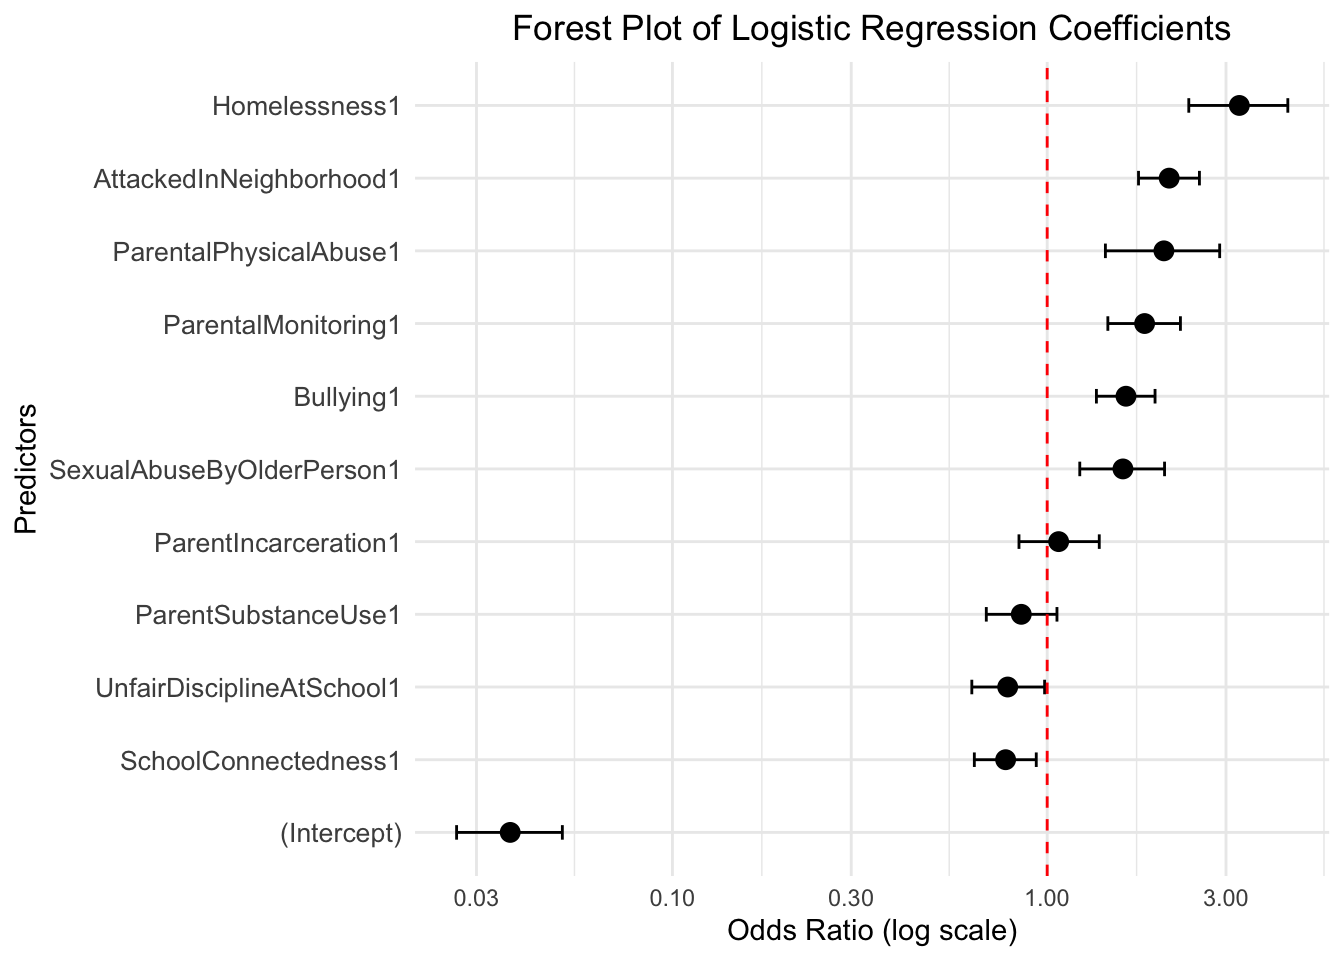
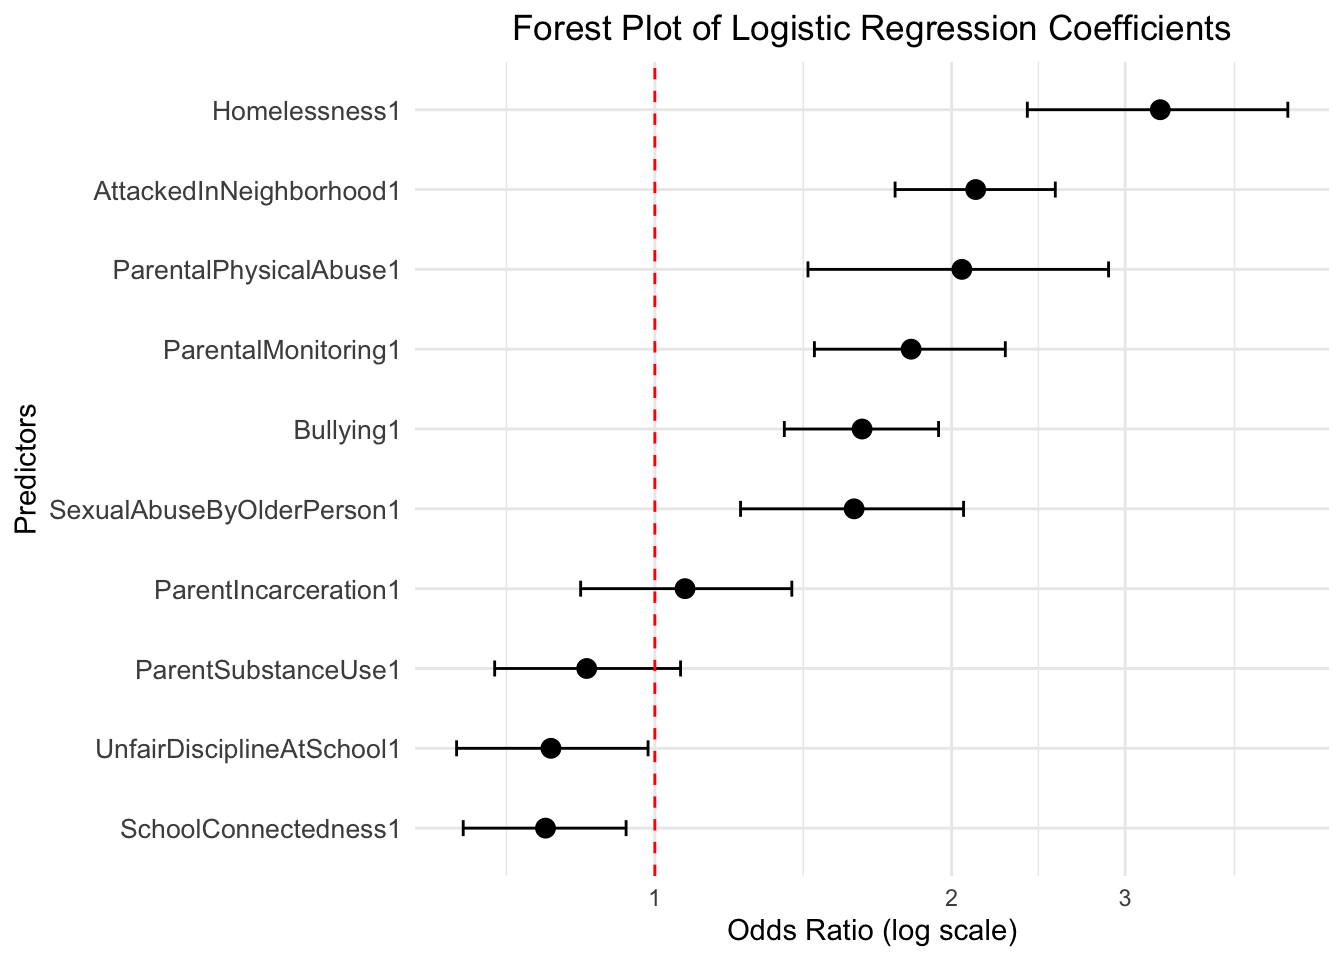
fixed details in website

diff --git a/docs/models/datasets.html b/docs/models/datasets.html
@@ -7,7 +7,7 @@
 <meta name="viewport" content="width=device-width, initial-scale=1.0, user-scalable=yes">
 
 
-<title>Data and Research Question – Machine Learning Course Portfolio</title>
+<title>Data and Research Question – Machine Learning Notes</title>
 <style>
 code{white-space: pre-wrap;}
 span.smallcaps{font-variant: small-caps;}
@@ -113,7 +113,7 @@ pre > code.sourceCode > span > a:first-child::before { text-decoration: underlin
       <div class="navbar-container container-fluid">
       <div class="navbar-brand-container mx-auto">
     <a class="navbar-brand" href="../index.html">
-    <span class="navbar-title">Machine Learning Course Portfolio</span>
+    <span class="navbar-title">Machine Learning Notes</span>
     </a>
   </div>
             <div id="quarto-search" class="" title="Search"></div>
@@ -251,71 +251,47 @@ pre > code.sourceCode > span > a:first-child::before { text-decoration: underlin
 <section id="data-preprocessing" class="level3">
 <h3 class="anchored" data-anchor-id="data-preprocessing">Data Preprocessing</h3>
 <div class="cell">
-<div class="sourceCode cell-code" id="cb1"><pre class="sourceCode r code-with-copy"><code class="sourceCode r"><span id="cb1-1"><a href="#cb1-1" aria-hidden="true" tabindex="-1"></a><span class="fu">library</span>(tidyverse)</span></code><button title="Copy to Clipboard" class="code-copy-button"><i class="bi"></i></button></pre></div>
-<div class="cell-output cell-output-stderr">
-<pre><code>── Attaching core tidyverse packages ──────────────────────── tidyverse 2.0.0 ──
-✔ dplyr     1.1.4     ✔ readr     2.1.5
-✔ forcats   1.0.0     ✔ stringr   1.5.1
-✔ ggplot2   3.5.2     ✔ tibble    3.2.1
-✔ lubridate 1.9.4     ✔ tidyr     1.3.1
-✔ purrr     1.0.4     
-── Conflicts ────────────────────────────────────────── tidyverse_conflicts() ──
-✖ dplyr::filter() masks stats::filter()
-✖ dplyr::lag()    masks stats::lag()
-ℹ Use the conflicted package (&lt;http://conflicted.r-lib.org/&gt;) to force all conflicts to become errors</code></pre>
-</div>
-<div class="sourceCode cell-code" id="cb3"><pre class="sourceCode r code-with-copy"><code class="sourceCode r"><span id="cb3-1"><a href="#cb3-1" aria-hidden="true" tabindex="-1"></a><span class="fu">library</span>(tidymodels)</span></code><button title="Copy to Clipboard" class="code-copy-button"><i class="bi"></i></button></pre></div>
-<div class="cell-output cell-output-stderr">
-<pre><code>── Attaching packages ────────────────────────────────────── tidymodels 1.3.0 ──
-✔ broom        1.0.8     ✔ rsample      1.3.0
-✔ dials        1.4.0     ✔ tune         1.3.0
-✔ infer        1.0.8     ✔ workflows    1.2.0
-✔ modeldata    1.4.0     ✔ workflowsets 1.1.0
-✔ parsnip      1.3.1     ✔ yardstick    1.3.2
-✔ recipes      1.3.0     
-── Conflicts ───────────────────────────────────────── tidymodels_conflicts() ──
-✖ scales::discard() masks purrr::discard()
-✖ dplyr::filter()   masks stats::filter()
-✖ recipes::fixed()  masks stringr::fixed()
-✖ dplyr::lag()      masks stats::lag()
-✖ yardstick::spec() masks readr::spec()
-✖ recipes::step()   masks stats::step()</code></pre>
-</div>
-<div class="sourceCode cell-code" id="cb5"><pre class="sourceCode r code-with-copy"><code class="sourceCode r"><span id="cb5-1"><a href="#cb5-1" aria-hidden="true" tabindex="-1"></a><span class="fu">library</span>(dissertationData)</span>
-<span id="cb5-2"><a href="#cb5-2" aria-hidden="true" tabindex="-1"></a><span class="fu">library</span>(here)</span></code><button title="Copy to Clipboard" class="code-copy-button"><i class="bi"></i></button></pre></div>
-<div class="cell-output cell-output-stderr">
-<pre><code>here() starts at /Users/cata/Desktop/FAU</code></pre>
-</div>
-<div class="sourceCode cell-code" id="cb7"><pre class="sourceCode r code-with-copy"><code class="sourceCode r"><span id="cb7-1"><a href="#cb7-1" aria-hidden="true" tabindex="-1"></a><span class="fu">data</span>(clean_yrbs_2023)</span>
-<span id="cb7-2"><a href="#cb7-2" aria-hidden="true" tabindex="-1"></a><span class="co"># Add your data preprocessing code here</span></span></code><button title="Copy to Clipboard" class="code-copy-button"><i class="bi"></i></button></pre></div>
+<div class="sourceCode cell-code" id="cb1"><pre class="sourceCode r code-with-copy"><code class="sourceCode r"><span id="cb1-1"><a href="#cb1-1" aria-hidden="true" tabindex="-1"></a><span class="fu">library</span>(tidyverse)</span>
+<span id="cb1-2"><a href="#cb1-2" aria-hidden="true" tabindex="-1"></a><span class="fu">library</span>(tidymodels)</span>
+<span id="cb1-3"><a href="#cb1-3" aria-hidden="true" tabindex="-1"></a><span class="fu">library</span>(dissertationData)</span>
+<span id="cb1-4"><a href="#cb1-4" aria-hidden="true" tabindex="-1"></a><span class="fu">library</span>(here)</span>
+<span id="cb1-5"><a href="#cb1-5" aria-hidden="true" tabindex="-1"></a><span class="fu">data</span>(clean_yrbs_2023)</span>
+<span id="cb1-6"><a href="#cb1-6" aria-hidden="true" tabindex="-1"></a><span class="co"># Add your data preprocessing code here</span></span></code><button title="Copy to Clipboard" class="code-copy-button"><i class="bi"></i></button></pre></div>
 </div>
 </section>
 <section id="exploratory-data-analysis" class="level3">
 <h3 class="anchored" data-anchor-id="exploratory-data-analysis">Exploratory Data Analysis</h3>
+<p><em>We will do it in class…</em></p>
 </section>
 <section id="creation-of-the-dataset" class="level3">
 <h3 class="anchored" data-anchor-id="creation-of-the-dataset">Creation of the Dataset</h3>
 <div class="cell">
-<div class="sourceCode cell-code" id="cb8"><pre class="sourceCode r code-with-copy"><code class="sourceCode r"><span id="cb8-1"><a href="#cb8-1" aria-hidden="true" tabindex="-1"></a><span class="co"># This is an example of how to create a dataset for a model.</span></span>
-<span id="cb8-2"><a href="#cb8-2" aria-hidden="true" tabindex="-1"></a><span class="co"># You can use this as a template to create your own dataset.</span></span>
-<span id="cb8-3"><a href="#cb8-3" aria-hidden="true" tabindex="-1"></a></span>
-<span id="cb8-4"><a href="#cb8-4" aria-hidden="true" tabindex="-1"></a></span>
-<span id="cb8-5"><a href="#cb8-5" aria-hidden="true" tabindex="-1"></a>analysis_data <span class="ot">&lt;-</span> clean_yrbs_2023 <span class="sc">%&gt;%</span></span>
-<span id="cb8-6"><a href="#cb8-6" aria-hidden="true" tabindex="-1"></a>    <span class="fu">select</span>(WeaponCarryingSchool, AttackedInNeighborhood, Bullying, </span>
-<span id="cb8-7"><a href="#cb8-7" aria-hidden="true" tabindex="-1"></a>           SexualAbuseByOlderPerson, ParentalPhysicalAbuse, ParentSubstanceUse, </span>
-<span id="cb8-8"><a href="#cb8-8" aria-hidden="true" tabindex="-1"></a>           ParentIncarceration, SchoolConnectedness, ParentalMonitoring, </span>
-<span id="cb8-9"><a href="#cb8-9" aria-hidden="true" tabindex="-1"></a>           UnfairDisciplineAtSchool, Homelessness) <span class="sc">|&gt;</span></span>
-<span id="cb8-10"><a href="#cb8-10" aria-hidden="true" tabindex="-1"></a>    <span class="fu">filter</span>(<span class="sc">!</span><span class="fu">is.na</span>(WeaponCarryingSchool)) <span class="sc">%&gt;%</span> </span>
-<span id="cb8-11"><a href="#cb8-11" aria-hidden="true" tabindex="-1"></a>    <span class="fu">mutate</span>(<span class="fu">across</span>(</span>
-<span id="cb8-12"><a href="#cb8-12" aria-hidden="true" tabindex="-1"></a>          <span class="fu">c</span>(ParentSubstanceUse, ParentIncarceration, SchoolConnectedness,</span>
-<span id="cb8-13"><a href="#cb8-13" aria-hidden="true" tabindex="-1"></a>            ParentalMonitoring, UnfairDisciplineAtSchool),</span>
-<span id="cb8-14"><a href="#cb8-14" aria-hidden="true" tabindex="-1"></a>          <span class="sc">~</span> <span class="fu">as.numeric</span>(.x) <span class="sc">-</span> <span class="dv">1</span></span>
-<span id="cb8-15"><a href="#cb8-15" aria-hidden="true" tabindex="-1"></a>          )) <span class="sc">%&gt;%</span> </span>
-<span id="cb8-16"><a href="#cb8-16" aria-hidden="true" tabindex="-1"></a>  <span class="fu">mutate</span>(<span class="fu">across</span>(</span>
-<span id="cb8-17"><a href="#cb8-17" aria-hidden="true" tabindex="-1"></a>    <span class="fu">c</span>(ParentSubstanceUse, ParentIncarceration, SchoolConnectedness,</span>
-<span id="cb8-18"><a href="#cb8-18" aria-hidden="true" tabindex="-1"></a>      ParentalMonitoring, UnfairDisciplineAtSchool),</span>
-<span id="cb8-19"><a href="#cb8-19" aria-hidden="true" tabindex="-1"></a>    <span class="sc">~</span> <span class="fu">factor</span>(.x)</span>
-<span id="cb8-20"><a href="#cb8-20" aria-hidden="true" tabindex="-1"></a>  ))</span></code><button title="Copy to Clipboard" class="code-copy-button"><i class="bi"></i></button></pre></div>
+<div class="sourceCode cell-code" id="cb2"><pre class="sourceCode r code-with-copy"><code class="sourceCode r"><span id="cb2-1"><a href="#cb2-1" aria-hidden="true" tabindex="-1"></a><span class="co"># This is an example of how to create a dataset for a model.</span></span>
+<span id="cb2-2"><a href="#cb2-2" aria-hidden="true" tabindex="-1"></a><span class="co"># You can use this as a template to create your own dataset.</span></span>
+<span id="cb2-3"><a href="#cb2-3" aria-hidden="true" tabindex="-1"></a></span>
+<span id="cb2-4"><a href="#cb2-4" aria-hidden="true" tabindex="-1"></a></span>
+<span id="cb2-5"><a href="#cb2-5" aria-hidden="true" tabindex="-1"></a>analysis_data <span class="ot">&lt;-</span> clean_yrbs_2023 <span class="sc">%&gt;%</span></span>
+<span id="cb2-6"><a href="#cb2-6" aria-hidden="true" tabindex="-1"></a>    <span class="fu">select</span>(</span>
+<span id="cb2-7"><a href="#cb2-7" aria-hidden="true" tabindex="-1"></a>        WeaponCarryingSchool, AttackedInNeighborhood, Bullying,</span>
+<span id="cb2-8"><a href="#cb2-8" aria-hidden="true" tabindex="-1"></a>        SexualAbuseByOlderPerson, ParentalPhysicalAbuse, ParentSubstanceUse,</span>
+<span id="cb2-9"><a href="#cb2-9" aria-hidden="true" tabindex="-1"></a>        ParentIncarceration, SchoolConnectedness, ParentalMonitoring,</span>
+<span id="cb2-10"><a href="#cb2-10" aria-hidden="true" tabindex="-1"></a>        UnfairDisciplineAtSchool, Homelessness</span>
+<span id="cb2-11"><a href="#cb2-11" aria-hidden="true" tabindex="-1"></a>    ) <span class="sc">|&gt;</span></span>
+<span id="cb2-12"><a href="#cb2-12" aria-hidden="true" tabindex="-1"></a>    <span class="fu">filter</span>(<span class="sc">!</span><span class="fu">is.na</span>(WeaponCarryingSchool)) <span class="sc">%&gt;%</span></span>
+<span id="cb2-13"><a href="#cb2-13" aria-hidden="true" tabindex="-1"></a>    <span class="fu">mutate</span>(<span class="fu">across</span>(</span>
+<span id="cb2-14"><a href="#cb2-14" aria-hidden="true" tabindex="-1"></a>        <span class="fu">c</span>(</span>
+<span id="cb2-15"><a href="#cb2-15" aria-hidden="true" tabindex="-1"></a>            ParentSubstanceUse, ParentIncarceration, SchoolConnectedness,</span>
+<span id="cb2-16"><a href="#cb2-16" aria-hidden="true" tabindex="-1"></a>            ParentalMonitoring, UnfairDisciplineAtSchool</span>
+<span id="cb2-17"><a href="#cb2-17" aria-hidden="true" tabindex="-1"></a>        ),</span>
+<span id="cb2-18"><a href="#cb2-18" aria-hidden="true" tabindex="-1"></a>        <span class="sc">~</span> <span class="fu">as.numeric</span>(.x) <span class="sc">-</span> <span class="dv">1</span></span>
+<span id="cb2-19"><a href="#cb2-19" aria-hidden="true" tabindex="-1"></a>    )) <span class="sc">%&gt;%</span></span>
+<span id="cb2-20"><a href="#cb2-20" aria-hidden="true" tabindex="-1"></a>    <span class="fu">mutate</span>(<span class="fu">across</span>(</span>
+<span id="cb2-21"><a href="#cb2-21" aria-hidden="true" tabindex="-1"></a>        <span class="fu">c</span>(</span>
+<span id="cb2-22"><a href="#cb2-22" aria-hidden="true" tabindex="-1"></a>            ParentSubstanceUse, ParentIncarceration, SchoolConnectedness,</span>
+<span id="cb2-23"><a href="#cb2-23" aria-hidden="true" tabindex="-1"></a>            ParentalMonitoring, UnfairDisciplineAtSchool</span>
+<span id="cb2-24"><a href="#cb2-24" aria-hidden="true" tabindex="-1"></a>        ),</span>
+<span id="cb2-25"><a href="#cb2-25" aria-hidden="true" tabindex="-1"></a>        <span class="sc">~</span> <span class="fu">factor</span>(.x)</span>
+<span id="cb2-26"><a href="#cb2-26" aria-hidden="true" tabindex="-1"></a>    ))</span></code><button title="Copy to Clipboard" class="code-copy-button"><i class="bi"></i></button></pre></div>
 </div>
 </section>
 <section id="splitting-the-dataset" class="level3">
@@ -324,10 +300,10 @@ pre > code.sourceCode > span > a:first-child::before { text-decoration: underlin
 <section id="cross-validation" class="level3">
 <h3 class="anchored" data-anchor-id="cross-validation">Cross-Validation</h3>
 <div class="cell">
-<div class="sourceCode cell-code" id="cb9"><pre class="sourceCode r code-with-copy"><code class="sourceCode r"><span id="cb9-1"><a href="#cb9-1" aria-hidden="true" tabindex="-1"></a>analysis_folds <span class="ot">&lt;-</span> <span class="fu">vfold_cv</span>(analysis_train,</span>
-<span id="cb9-2"><a href="#cb9-2" aria-hidden="true" tabindex="-1"></a>    <span class="at">v =</span> <span class="dv">5</span></span>
-<span id="cb9-3"><a href="#cb9-3" aria-hidden="true" tabindex="-1"></a>)</span>
-<span id="cb9-4"><a href="#cb9-4" aria-hidden="true" tabindex="-1"></a>analysis_folds</span></code><button title="Copy to Clipboard" class="code-copy-button"><i class="bi"></i></button></pre></div>
+<div class="sourceCode cell-code" id="cb3"><pre class="sourceCode r code-with-copy"><code class="sourceCode r"><span id="cb3-1"><a href="#cb3-1" aria-hidden="true" tabindex="-1"></a>analysis_folds <span class="ot">&lt;-</span> <span class="fu">vfold_cv</span>(analysis_train,</span>
+<span id="cb3-2"><a href="#cb3-2" aria-hidden="true" tabindex="-1"></a>    <span class="at">v =</span> <span class="dv">5</span></span>
+<span id="cb3-3"><a href="#cb3-3" aria-hidden="true" tabindex="-1"></a>)</span>
+<span id="cb3-4"><a href="#cb3-4" aria-hidden="true" tabindex="-1"></a>analysis_folds</span></code><button title="Copy to Clipboard" class="code-copy-button"><i class="bi"></i></button></pre></div>
 </div>
 
 

diff --git a/docs/models/logistic.html b/docs/models/logistic.html
@@ -7,7 +7,7 @@
 <meta name="viewport" content="width=device-width, initial-scale=1.0, user-scalable=yes">
 
 
-<title>Logistic Regression – Machine Learning Course Portfolio</title>
+<title>Logistic Regression – Machine Learning Notes</title>
 <style>
 code{white-space: pre-wrap;}
 span.smallcaps{font-variant: small-caps;}
@@ -113,7 +113,7 @@ pre > code.sourceCode > span > a:first-child::before { text-decoration: underlin
       <div class="navbar-container container-fluid">
       <div class="navbar-brand-container mx-auto">
     <a class="navbar-brand" href="../index.html">
-    <span class="navbar-title">Machine Learning Course Portfolio</span>
+    <span class="navbar-title">Machine Learning Notes</span>
     </a>
   </div>
             <div id="quarto-search" class="" title="Search"></div>
@@ -188,7 +188,6 @@ pre > code.sourceCode > span > a:first-child::before { text-decoration: underlin
   <li><a href="#visualizations" id="toc-visualizations" class="nav-link" data-scroll-target="#visualizations">Visualizations</a></li>
   <li><a href="#results-and-interpretation" id="toc-results-and-interpretation" class="nav-link" data-scroll-target="#results-and-interpretation">Results and Interpretation</a></li>
   <li><a href="#key-takeaways" id="toc-key-takeaways" class="nav-link" data-scroll-target="#key-takeaways">Key Takeaways</a></li>
-  <li><a href="#references" id="toc-references" class="nav-link" data-scroll-target="#references">References</a></li>
   </ul>
 </nav>
     </div>
@@ -468,22 +467,23 @@ Residual Deviance: 4872     AIC: 4894</code></pre>
 <section id="visualizations" class="level3">
 <h3 class="anchored" data-anchor-id="visualizations">Visualizations</h3>
 <div class="cell">
-<div class="sourceCode cell-code" id="cb29"><pre class="sourceCode r code-with-copy"><code class="sourceCode r"><span id="cb29-1"><a href="#cb29-1" aria-hidden="true" tabindex="-1"></a>tidy_model <span class="sc">%&gt;%</span> </span>
-<span id="cb29-2"><a href="#cb29-2" aria-hidden="true" tabindex="-1"></a>  <span class="fu">ggplot</span>(<span class="fu">aes</span>(<span class="at">x =</span> estimate, <span class="at">y =</span> <span class="fu">reorder</span>(term, estimate))) <span class="sc">+</span></span>
-<span id="cb29-3"><a href="#cb29-3" aria-hidden="true" tabindex="-1"></a>  <span class="fu">geom_point</span>(<span class="at">size =</span> <span class="dv">3</span>) <span class="sc">+</span></span>
-<span id="cb29-4"><a href="#cb29-4" aria-hidden="true" tabindex="-1"></a>  <span class="fu">geom_errorbarh</span>(<span class="fu">aes</span>(<span class="at">xmin =</span> conf.low, <span class="at">xmax =</span> conf.high), <span class="at">height =</span> <span class="fl">0.2</span>) <span class="sc">+</span></span>
-<span id="cb29-5"><a href="#cb29-5" aria-hidden="true" tabindex="-1"></a>  <span class="fu">geom_vline</span>(<span class="at">xintercept =</span> <span class="dv">1</span>, <span class="at">linetype =</span> <span class="st">"dashed"</span>, <span class="at">color =</span> <span class="st">"red"</span>) <span class="sc">+</span></span>
-<span id="cb29-6"><a href="#cb29-6" aria-hidden="true" tabindex="-1"></a>  <span class="fu">scale_x_log10</span>() <span class="sc">+</span></span>
-<span id="cb29-7"><a href="#cb29-7" aria-hidden="true" tabindex="-1"></a>  <span class="fu">labs</span>(</span>
-<span id="cb29-8"><a href="#cb29-8" aria-hidden="true" tabindex="-1"></a>    <span class="at">x =</span> <span class="st">"Odds Ratio (log scale)"</span>,</span>
-<span id="cb29-9"><a href="#cb29-9" aria-hidden="true" tabindex="-1"></a>    <span class="at">y =</span> <span class="st">"Predictors"</span>,</span>
-<span id="cb29-10"><a href="#cb29-10" aria-hidden="true" tabindex="-1"></a>    <span class="at">title =</span> <span class="st">"Forest Plot of Logistic Regression Coefficients"</span></span>
-<span id="cb29-11"><a href="#cb29-11" aria-hidden="true" tabindex="-1"></a>  ) <span class="sc">+</span></span>
-<span id="cb29-12"><a href="#cb29-12" aria-hidden="true" tabindex="-1"></a>  <span class="fu">theme_minimal</span>() <span class="sc">+</span></span>
-<span id="cb29-13"><a href="#cb29-13" aria-hidden="true" tabindex="-1"></a>  <span class="fu">theme</span>(</span>
-<span id="cb29-14"><a href="#cb29-14" aria-hidden="true" tabindex="-1"></a>    <span class="at">axis.text.y =</span> <span class="fu">element_text</span>(<span class="at">size =</span> <span class="dv">10</span>),</span>
-<span id="cb29-15"><a href="#cb29-15" aria-hidden="true" tabindex="-1"></a>    <span class="at">plot.title =</span> <span class="fu">element_text</span>(<span class="at">hjust =</span> <span class="fl">0.5</span>)</span>
-<span id="cb29-16"><a href="#cb29-16" aria-hidden="true" tabindex="-1"></a>  )</span></code><button title="Copy to Clipboard" class="code-copy-button"><i class="bi"></i></button></pre></div>
+<div class="sourceCode cell-code" id="cb29"><pre class="sourceCode r code-with-copy"><code class="sourceCode r"><span id="cb29-1"><a href="#cb29-1" aria-hidden="true" tabindex="-1"></a>tidy_model <span class="sc">|&gt;</span> </span>
+<span id="cb29-2"><a href="#cb29-2" aria-hidden="true" tabindex="-1"></a>  <span class="fu">filter</span>(term <span class="sc">!=</span> <span class="st">"(Intercept)"</span>) <span class="sc">|&gt;</span> </span>
+<span id="cb29-3"><a href="#cb29-3" aria-hidden="true" tabindex="-1"></a>  <span class="fu">ggplot</span>(<span class="fu">aes</span>(<span class="at">x =</span> estimate, <span class="at">y =</span> <span class="fu">reorder</span>(term, estimate))) <span class="sc">+</span></span>
+<span id="cb29-4"><a href="#cb29-4" aria-hidden="true" tabindex="-1"></a>  <span class="fu">geom_point</span>(<span class="at">size =</span> <span class="dv">3</span>) <span class="sc">+</span></span>
+<span id="cb29-5"><a href="#cb29-5" aria-hidden="true" tabindex="-1"></a>  <span class="fu">geom_errorbarh</span>(<span class="fu">aes</span>(<span class="at">xmin =</span> conf.low, <span class="at">xmax =</span> conf.high), <span class="at">height =</span> <span class="fl">0.2</span>) <span class="sc">+</span></span>
+<span id="cb29-6"><a href="#cb29-6" aria-hidden="true" tabindex="-1"></a>  <span class="fu">geom_vline</span>(<span class="at">xintercept =</span> <span class="dv">1</span>, <span class="at">linetype =</span> <span class="st">"dashed"</span>, <span class="at">color =</span> <span class="st">"red"</span>) <span class="sc">+</span></span>
+<span id="cb29-7"><a href="#cb29-7" aria-hidden="true" tabindex="-1"></a>  <span class="fu">scale_x_log10</span>() <span class="sc">+</span></span>
+<span id="cb29-8"><a href="#cb29-8" aria-hidden="true" tabindex="-1"></a>  <span class="fu">labs</span>(</span>
+<span id="cb29-9"><a href="#cb29-9" aria-hidden="true" tabindex="-1"></a>    <span class="at">x =</span> <span class="st">"Odds Ratio (log scale)"</span>,</span>
+<span id="cb29-10"><a href="#cb29-10" aria-hidden="true" tabindex="-1"></a>    <span class="at">y =</span> <span class="st">"Predictors"</span>,</span>
+<span id="cb29-11"><a href="#cb29-11" aria-hidden="true" tabindex="-1"></a>    <span class="at">title =</span> <span class="st">"Forest Plot of Logistic Regression Coefficients"</span></span>
+<span id="cb29-12"><a href="#cb29-12" aria-hidden="true" tabindex="-1"></a>  ) <span class="sc">+</span></span>
+<span id="cb29-13"><a href="#cb29-13" aria-hidden="true" tabindex="-1"></a>  <span class="fu">theme_minimal</span>() <span class="sc">+</span></span>
+<span id="cb29-14"><a href="#cb29-14" aria-hidden="true" tabindex="-1"></a>  <span class="fu">theme</span>(</span>
+<span id="cb29-15"><a href="#cb29-15" aria-hidden="true" tabindex="-1"></a>    <span class="at">axis.text.y =</span> <span class="fu">element_text</span>(<span class="at">size =</span> <span class="dv">10</span>),</span>
+<span id="cb29-16"><a href="#cb29-16" aria-hidden="true" tabindex="-1"></a>    <span class="at">plot.title =</span> <span class="fu">element_text</span>(<span class="at">hjust =</span> <span class="fl">0.5</span>)</span>
+<span id="cb29-17"><a href="#cb29-17" aria-hidden="true" tabindex="-1"></a>  )</span></code><button title="Copy to Clipboard" class="code-copy-button"><i class="bi"></i></button></pre></div>
 <div class="cell-output-display">
 <div>
 <figure class="figure">
@@ -498,9 +498,6 @@ Residual Deviance: 4872     AIC: 4894</code></pre>
 </section>
 <section id="key-takeaways" class="level3">
 <h3 class="anchored" data-anchor-id="key-takeaways">Key Takeaways</h3>
-</section>
-<section id="references" class="level3">
-<h3 class="anchored" data-anchor-id="references">References</h3>
 
 
 </section>

diff --git a/docs/models/lasso.html b/docs/models/lasso.html
@@ -7,7 +7,7 @@
 <meta name="viewport" content="width=device-width, initial-scale=1.0, user-scalable=yes">
 
 
-<title>Lasso Regression – Machine Learning Course Portfolio</title>
+<title>Lasso Regression – Machine Learning Notes</title>
 <style>
 code{white-space: pre-wrap;}
 span.smallcaps{font-variant: small-caps;}
@@ -113,7 +113,7 @@ pre > code.sourceCode > span > a:first-child::before { text-decoration: underlin
       <div class="navbar-container container-fluid">
       <div class="navbar-brand-container mx-auto">
     <a class="navbar-brand" href="../index.html">
-    <span class="navbar-title">Machine Learning Course Portfolio</span>
+    <span class="navbar-title">Machine Learning Notes</span>
     </a>
   </div>
             <div id="quarto-search" class="" title="Search"></div>

diff --git a/docs/index.html b/docs/index.html
@@ -7,7 +7,7 @@
 <meta name="viewport" content="width=device-width, initial-scale=1.0, user-scalable=yes">
 
 
-<title>Machine Learning Notebook 👀 – Machine Learning Course Portfolio</title>
+<title>Machine Learning Notebook 👀 – Machine Learning Notes</title>
 <style>
 code{white-space: pre-wrap;}
 span.smallcaps{font-variant: small-caps;}
@@ -79,7 +79,7 @@ ul.task-list li input[type="checkbox"] {
       <div class="navbar-container container-fluid">
       <div class="navbar-brand-container mx-auto">
     <a class="navbar-brand" href="./index.html">
-    <span class="navbar-title">Machine Learning Course Portfolio</span>
+    <span class="navbar-title">Machine Learning Notes</span>
     </a>
   </div>
             <div id="quarto-search" class="" title="Search"></div>

diff --git a/docs/about.html b/docs/about.html
@@ -7,7 +7,7 @@
 <meta name="viewport" content="width=device-width, initial-scale=1.0, user-scalable=yes">
 
 
-<title>About Me – Machine Learning Course Portfolio</title>
+<title>About Me – Machine Learning Notes</title>
 <style>
 code{white-space: pre-wrap;}
 span.smallcaps{font-variant: small-caps;}
@@ -79,7 +79,7 @@ ul.task-list li input[type="checkbox"] {
       <div class="navbar-container container-fluid">
       <div class="navbar-brand-container mx-auto">
     <a class="navbar-brand" href="./index.html">
-    <span class="navbar-title">Machine Learning Course Portfolio</span>
+    <span class="navbar-title">Machine Learning Notes</span>
     </a>
   </div>
             <div id="quarto-search" class="" title="Search"></div>
